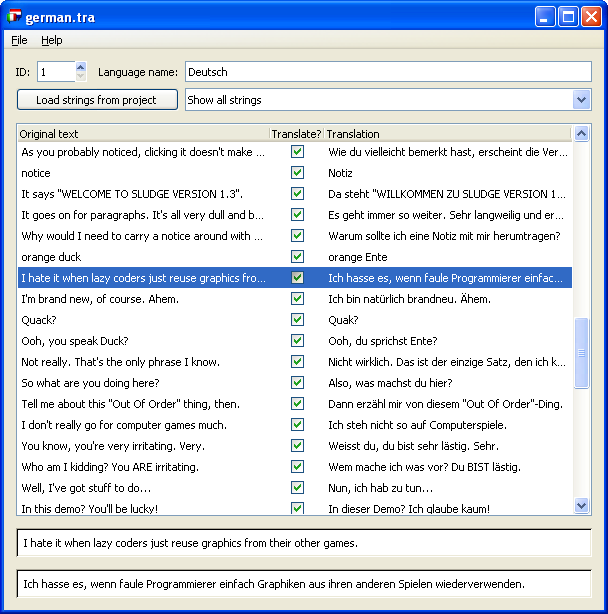
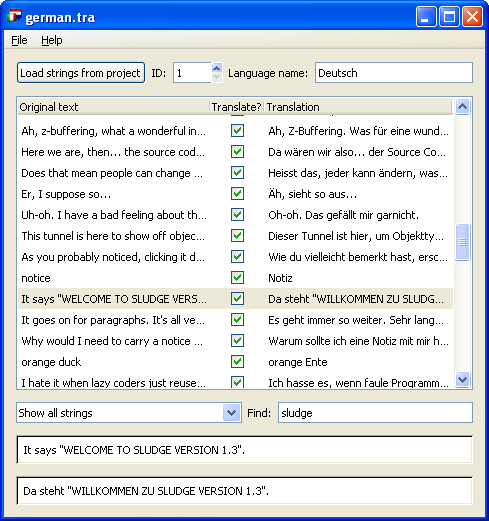
Documentation: Searching in Translation Editor, Force silent in  Project Manager
git-svn-id: svn://svn.code.sf.net/p/opensludge/code@327 27a91dd4-ec73-4ff0-838b-64dfa05f697e

diff --git a/doc/SLUDGEDevKitHelp/About_the_SLUDGE_Translation_Editor.html b/doc/SLUDGEDevKitHelp/About_the_SLUDGE_Translation_Editor.html
@@ -32,9 +32,9 @@
 
    <P>Strings which have had the "Translate?" box unchecked can be found in the category "Strings that don't need translation". Strings which have been translated can be found in the category "Translated strings". You can select these categories using the drop-down selection box and change the settings for each string in the same way as above.</P>
 
-   <A NAME=find><H3>Finding a specific string (1.7)</H3></A>
+   <A NAME=find><H3>Finding a specific string</H3></A>
    
-   <P>There are times when you'll want to hunt out a specific string and change your translation, perhaps after playing the game and not being happy with how things have worked out, or perhaps after being corrected by someone who speaks the language into which you're translating your game better than you. Fear not! You no longer have to look through the big long list of strings yourself to find what you're after - you can get the program to do it for you. Hit the "Search" button and type in a bit of the string you're looking for. Any strings that contain the text you enter will now appear in the main list under the heading SEARCH RESULTS. Even if it finds a couple of strings, you should be able to work out which one(s) you want to alter.</P>
+   <P>To find a specific string (in the Windows/Linux Translation Editor), type it into the box labeled <b>Find</b>. As you type, the first string in the displayed category that contains what you are typing is highlighted. Use the arrow keys to jump to possible other strings also containing the searched characters.</P>
    
    <P>The program will also match your text against any existing translations in the file. So, if you've translated "Hello" into "Bonjour" and "On the table" into "Sur la table", searching for "on" will match both (because of the translation of the first line, and the original text of the second).</P>
 

diff --git a/doc/SLUDGEDevKitHelp/Project_Manager__Project_Settings_Dialog.html b/doc/SLUDGEDevKitHelp/Project_Manager__Project_Settings_Dialog.html
@@ -60,7 +60,7 @@ The language of the strings in your code. This is used in the language selection
 </P>
 
 <P>
-</b>The name of the project file to be created by the <a href="About_the_SLUDGE_Compiler.html">SLUDGE compiler</a> when the project is compiled. The extension &quot;.SLG&quot; will be added automatically - please don't add this yourself. The name entered here is also used for a file containing all the strings in your game - see the <a href="Spellchecking_the_Strings_in_your_Game.html">Spellchecking the Strings in your Game</a> topic.
+</b>The name of the game file to be created by the <a href="About_the_SLUDGE_Compiler.html">SLUDGE compiler</a> when the project is compiled. The extension &quot;.SLG&quot; will be added automatically - please don't add this yourself. The name entered here is also used for a file containing all the strings in your game - see the <a href="Spellchecking_the_Strings_in_your_Game.html">Spellchecking the Strings in your Game</a> topic.
 </P>
 
 <P>
@@ -101,7 +101,7 @@ The minimum time, in milliseconds, for which each frame should be displayed on-s
 </P>
 
 <P>
-(FIXME: Don't know what this does.)
+If this box is checked, the compiler will create a silent game - no sounds. The sound files wont be included in the game file, so this will result in a smaller game file and a shorter compile time.
 </P>
 
 <P>

diff --git a/doc/SLUDGEDevKitHelp/About_the_SLUDGE_Floor_Maker.html b/doc/SLUDGEDevKitHelp/About_the_SLUDGE_Floor_Maker.html
@@ -31,7 +31,7 @@ Work out in your head where you want characters to be able to walk. Characters s
 </P>
 
 <P>
-<IMG SRC="images/floormaker.png">
+<IMG SRC="images/floormaker.jpg">
 </P>
 <P>
 
